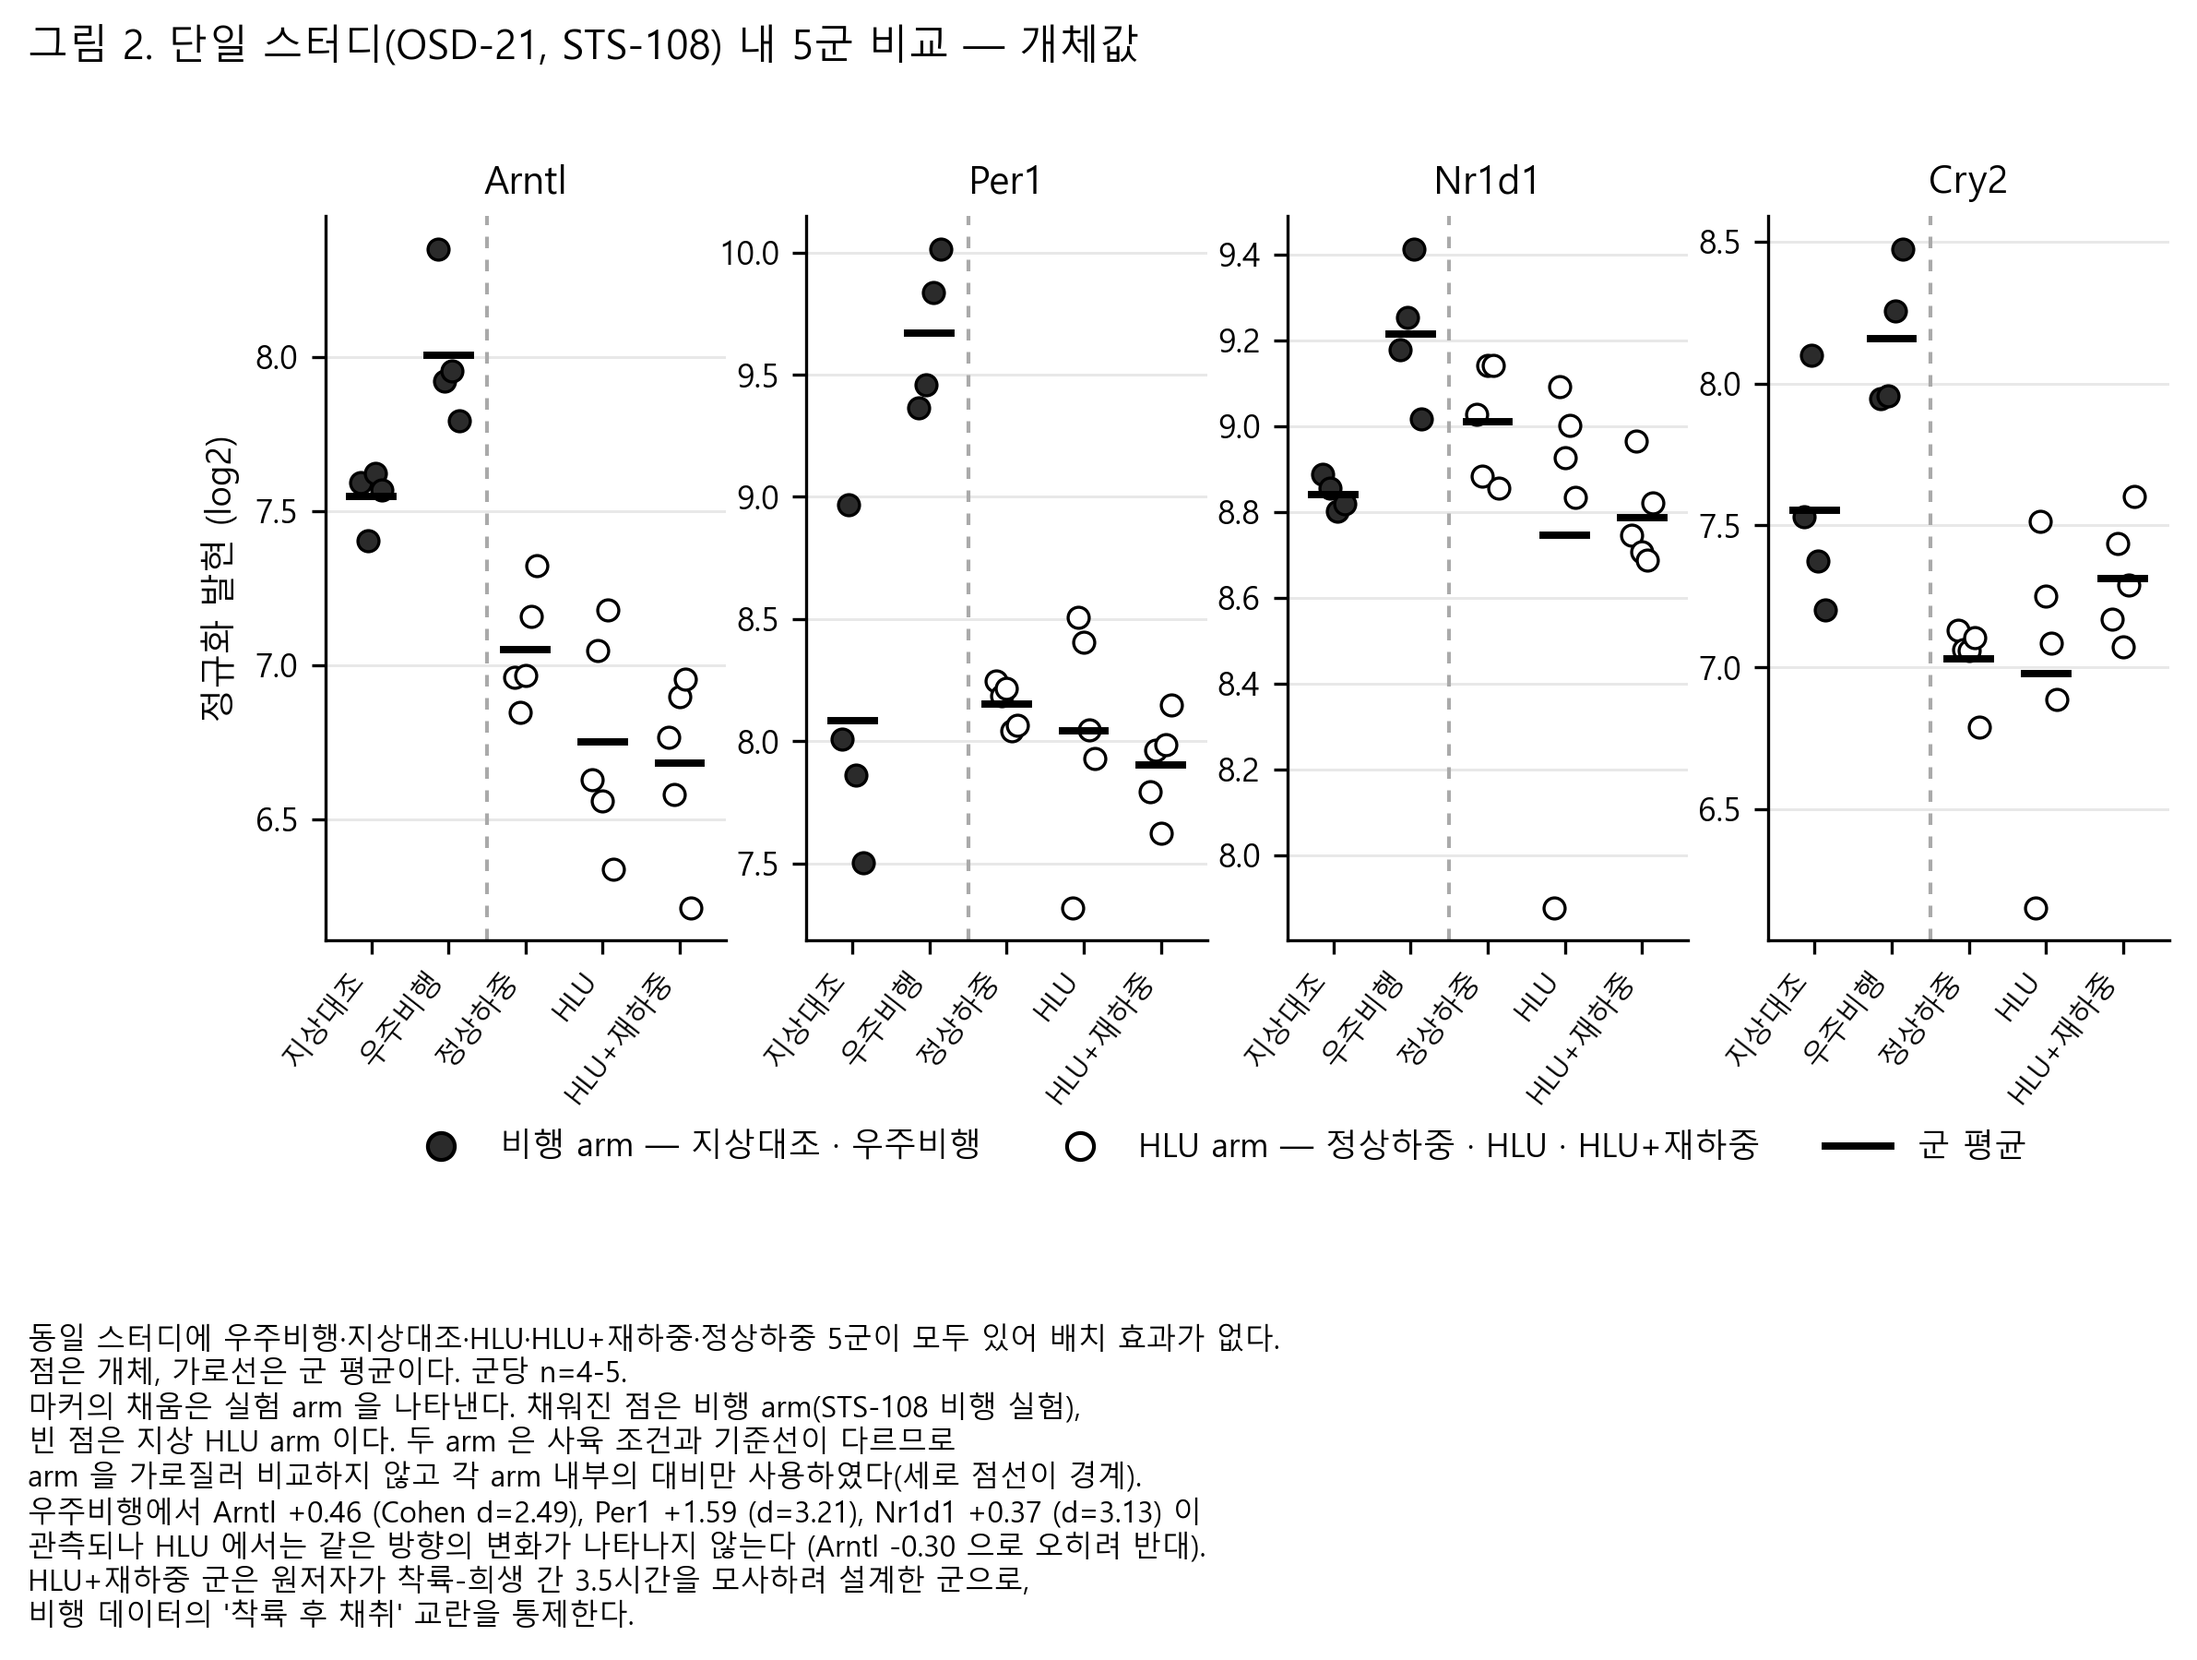
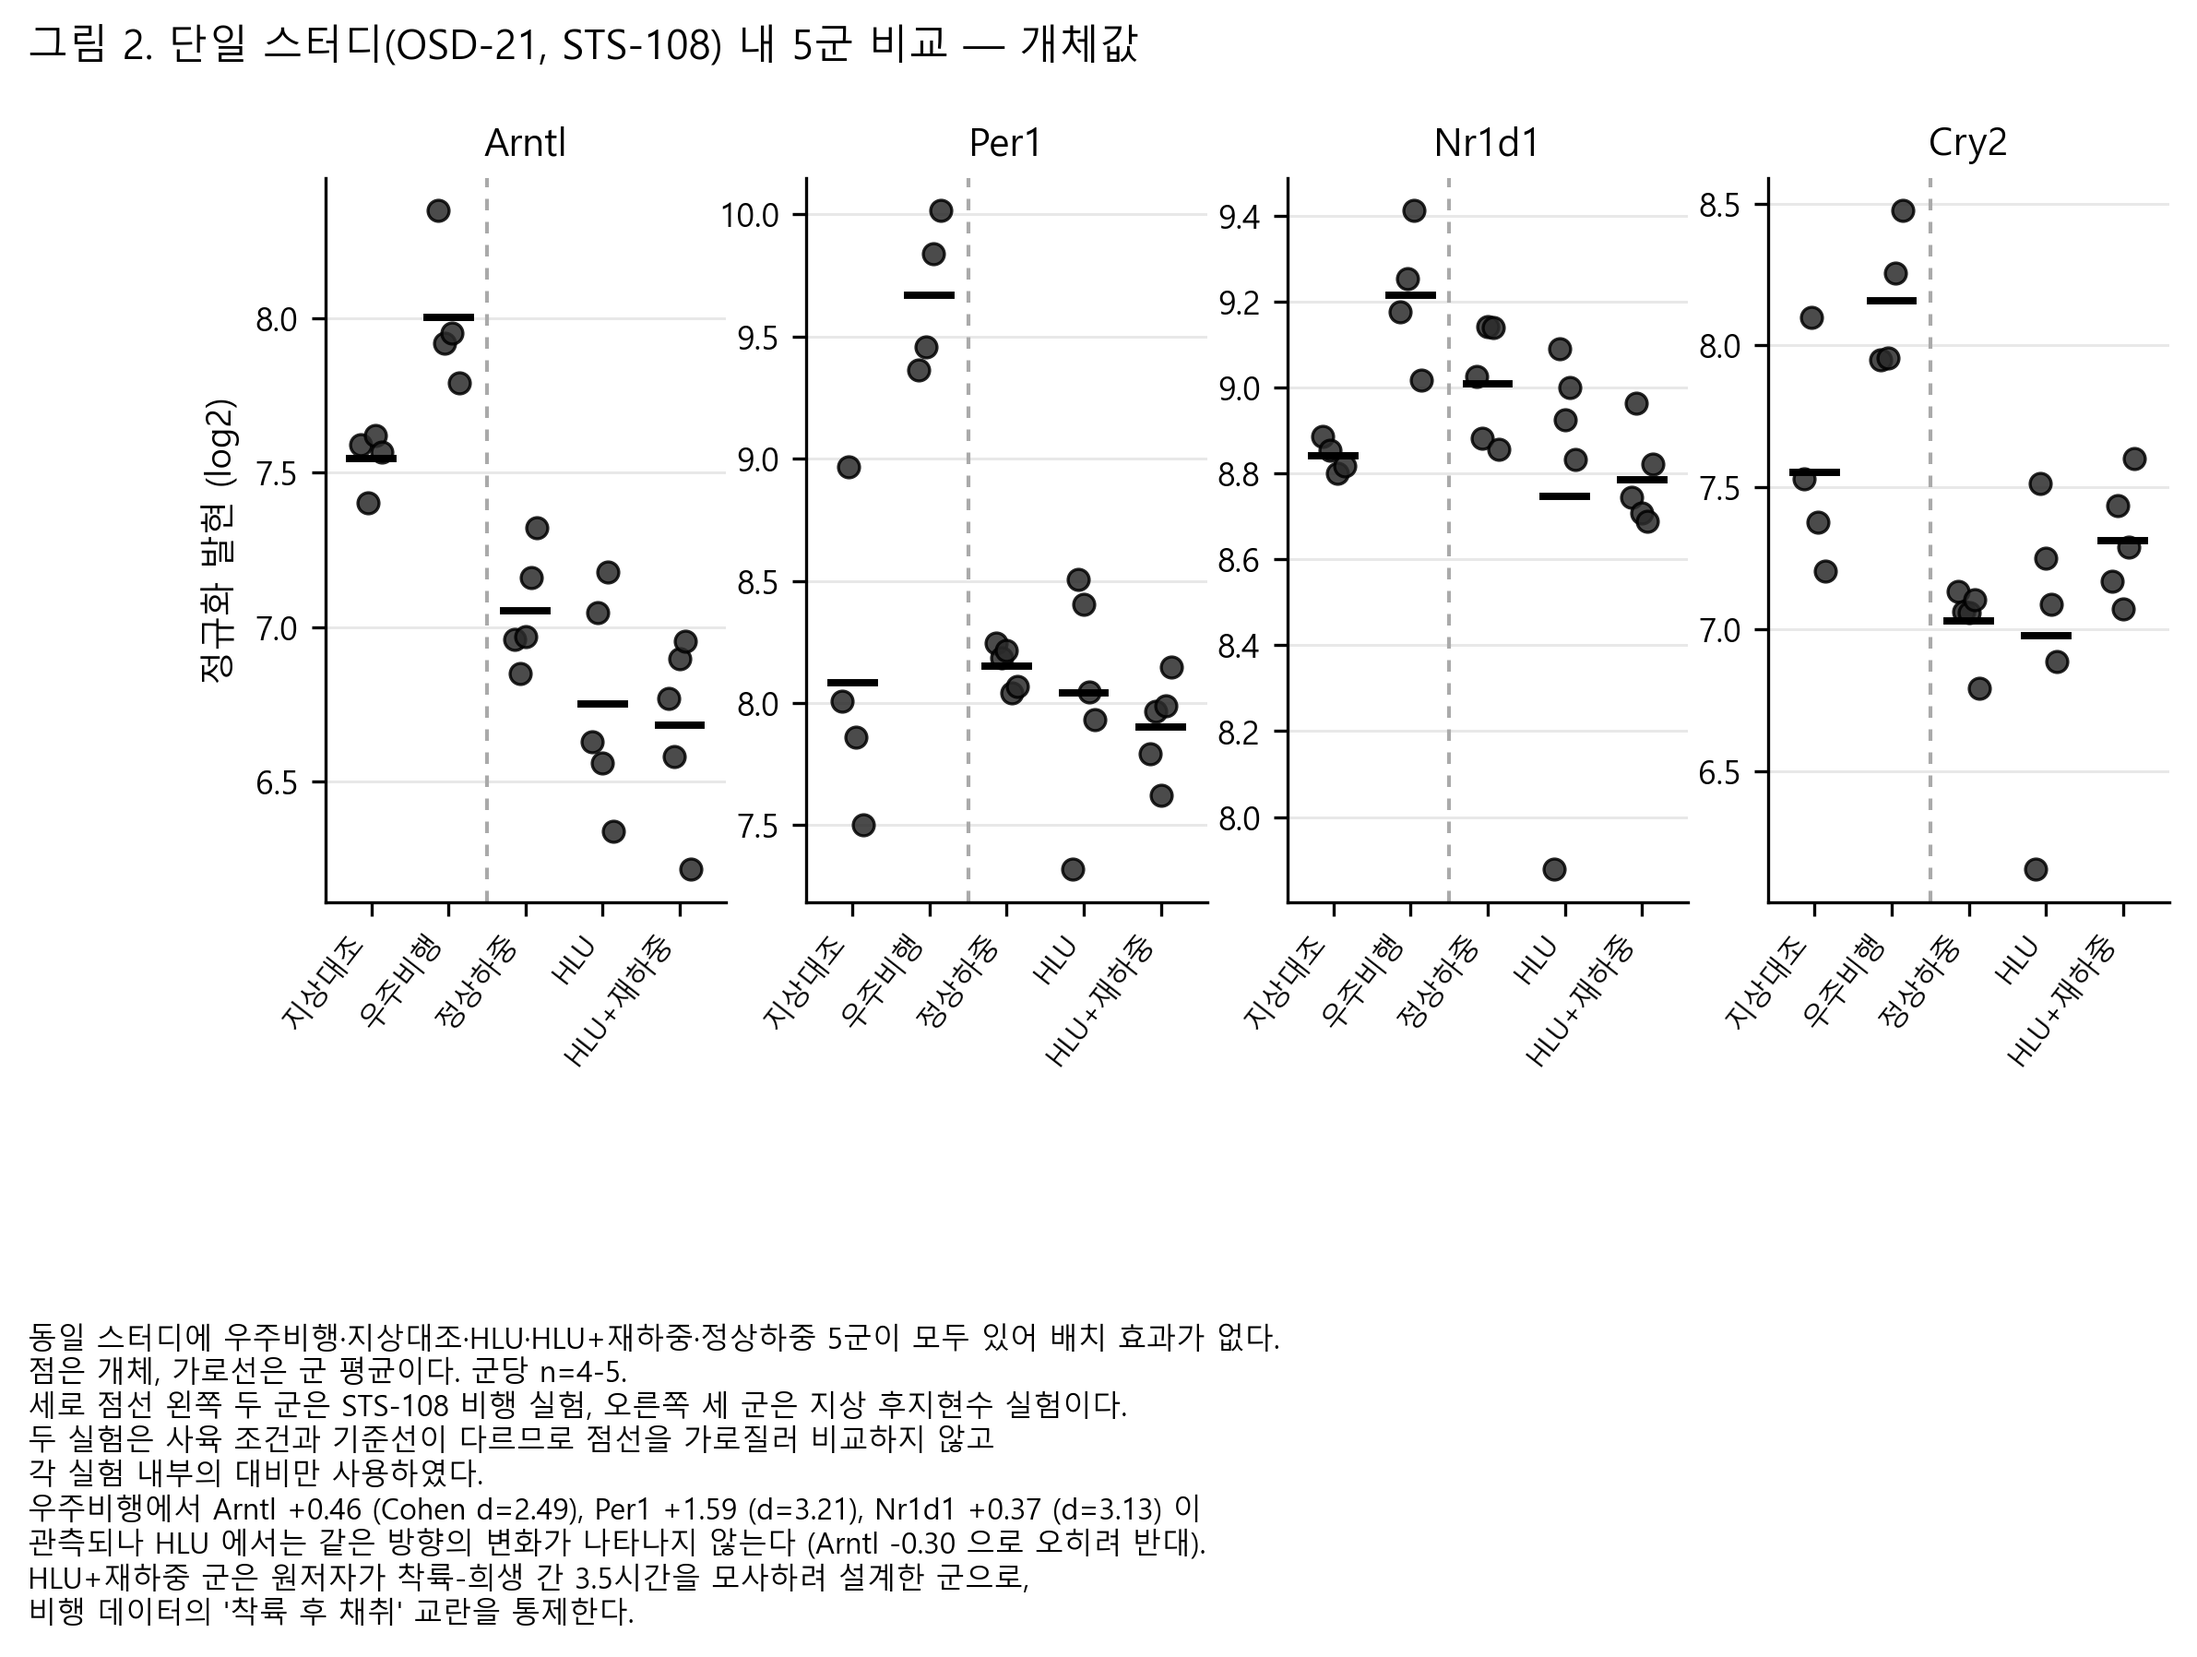
그림 2: 중복 부호화 제거 (범례 추가 대신)
앞선 수정은 방향이 틀렸다. x축에 군 이름이 이미 적혀 있으므로
마커 채움은 같은 정보를 중복 부호화한 것이었고,
그것을 설명하려고 범례를 추가한 것은 불필요한 요소를 늘린 것이었다.

부호화를 제거하는 쪽으로 바꿨다.
- 마커 통일, 범례 삭제
- arm 구분은 세로 점선 하나로만 표시
- 캡션에서 '점선 왼쪽 = STS-108 비행 실험, 오른쪽 = 지상 후지현수 실험' 서술
- 계획서 문서의 그림 2 캡션도 동일하게 수정

diff --git a/src/v2_fig_osd21.py b/src/v2_fig_osd21.py
@@ -9,10 +9,11 @@ v2 — OSD-21 앵커 그림 수정판.
   표시되지 않아, 그림을 올바르게 읽을 수 없는 상태였다.
 
 수정 내용
-  1) 범례 추가 — 두 arm 을 명시
-  2) arm 경계에 구분선과 라벨 추가
-  3) 캡션에 부호화 설명 명시
-  4) 군 이름을 가로로 배치해 회전 라벨 겹침 해소
+  x축에 군 이름이 이미 적혀 있으므로 마커 채움은 같은 정보를 중복 부호화한 것이었다.
+  중복을 없애고 arm 경계는 세로 점선 하나로만 표시한다.
+  마커를 통일하면 범례 자체가 불필요해진다.
+  (첫 수정에서는 범례를 추가했으나, 그것은 불필요한 부호화를 설명하려고
+   요소를 더 늘린 것이었다. 부호화를 제거하는 쪽이 맞다.)
 
 기존 파일은 덮어쓰지 않고 results/v2/figures/ 에 새로 저장한다.
 """
@@ -23,7 +24,7 @@ import matplotlib
 matplotlib.use("Agg")
 import matplotlib.pyplot as plt
 from matplotlib import font_manager
-from matplotlib.lines import Line2D
+# (범례를 없앴으므로 Line2D 불필요)
 
 warnings.filterwarnings("ignore")
 ROOT = os.path.dirname(os.path.dirname(os.path.abspath(__file__)))
@@ -64,9 +65,9 @@ def main():
             v = sub[sub.group == key].value_log2.values
             if not len(v):
                 continue
-            face = INK if arm == "flight" else "white"
             ax.scatter(np.full(len(v), i) + np.linspace(-0.14, 0.14, len(v)), v,
-                       s=30, facecolor=face, edgecolor="black", lw=0.8, zorder=3)
+                       s=30, facecolor=INK, edgecolor="black", lw=0.8,
+                       alpha=0.85, zorder=3)
             ax.plot([i - 0.28, i + 0.28], [v.mean()] * 2, color="black", lw=1.9, zorder=4)
         # arm 경계선
         ax.axvline(1.5, color="#aaaaaa", lw=1.0, ls=(0, (3, 3)), zorder=1)
@@ -81,29 +82,14 @@ def main():
         if ax is axes[0]:
             ax.set_ylabel("정규화 발현 (log2)")
 
-    # arm 구분은 범례와 세로 점선으로 전달한다.
-    # 패널 안에 arm 이름을 넣으면 유전자 제목과 겹친다.
-
-    handles = [
-        Line2D([], [], marker="o", linestyle="none", markersize=7,
-               markerfacecolor=INK, markeredgecolor="black",
-               label="비행 arm — 지상대조 · 우주비행"),
-        Line2D([], [], marker="o", linestyle="none", markersize=7,
-               markerfacecolor="white", markeredgecolor="black",
-               label="HLU arm — 정상하중 · HLU · HLU+재하중"),
-        Line2D([], [], color="black", lw=1.9, label="군 평균"),
-    ]
-    fig.legend(handles=handles, loc="lower center", ncol=3, frameon=False,
-               bbox_to_anchor=(0.5, -0.16), fontsize=8.5)
-
     fig.suptitle("그림 2. 단일 스터디(OSD-21, STS-108) 내 5군 비교 — 개체값",
-                 x=0.0, ha="left", fontsize=10.5, y=1.08)
-    fig.text(0.0, -0.30,
+                 x=0.0, ha="left", fontsize=10.5, y=1.04)
+    fig.text(0.0, -0.34,
              "동일 스터디에 우주비행·지상대조·HLU·HLU+재하중·정상하중 5군이 모두 있어 배치 효과가 없다.\n"
              "점은 개체, 가로선은 군 평균이다. 군당 n=4-5.\n"
-             "마커의 채움은 실험 arm 을 나타낸다. 채워진 점은 비행 arm(STS-108 비행 실험),\n"
-             "빈 점은 지상 HLU arm 이다. 두 arm 은 사육 조건과 기준선이 다르므로\n"
-             "arm 을 가로질러 비교하지 않고 각 arm 내부의 대비만 사용하였다(세로 점선이 경계).\n"
+             "세로 점선 왼쪽 두 군은 STS-108 비행 실험, 오른쪽 세 군은 지상 후지현수 실험이다.\n"
+             "두 실험은 사육 조건과 기준선이 다르므로 점선을 가로질러 비교하지 않고\n"
+             "각 실험 내부의 대비만 사용하였다.\n"
              "우주비행에서 Arntl +0.46 (Cohen d=2.49), Per1 +1.59 (d=3.21), Nr1d1 +0.37 (d=3.13) 이\n"
              "관측되나 HLU 에서는 같은 방향의 변화가 나타나지 않는다 (Arntl -0.30 으로 오히려 반대).\n"
              "HLU+재하중 군은 원저자가 착륙-희생 간 3.5시간을 모사하려 설계한 군으로,\n"

diff --git a/PROGRESS.md b/PROGRESS.md
@@ -50,3 +50,5 @@
 [2026-07-30 09:40] v2 문서화 | 계획서 초안(§2 나 드라이랩 / §3 예상되는 결과)을 v2 수치로 보강 + 작업기록 문서 작성. 둘 다 구글 독스 붙여넣기용 HTML | 갱신 내용: (a) 데이터 절의 '6개 조직'을 '5개 조직 + 골수는 대비 불가로 제외'로 수정 (b) [수정 예정] 표시 해소 — 조직별 표(표 3)와 미션별 표(표 4) 신설 (c) 대비 선택 규칙·품질 게이트를 방법에 명시 (d) 보정·검정력은 '예정'으로 표기 유지(미실시) (e) §3(2)를 세 경우 중 '판정 불가'가 실제로 나왔음을 서술하도록 재작성 (f) 앵커 결론을 '근육에 한정'으로 조건화 (g) 그림 1을 v2 forest plot 으로 교체 | 판정: **완료** | 다음: 커밋
 
 [2026-07-31 10:15] 그림 2 부호화 누락 수정 | 기존 fig3_osd21_anchor.png 은 마커 채움으로 비행 arm(지상대조·우주비행)과 HLU arm(정상하중·HLU·HLU+재하중)을 구분했으나 범례도 캡션 설명도 없었음. 캡션이 'arm 내부 대비만 사용' 이라고 서술하면서 정작 어느 점이 어느 arm 인지 표시하지 않아 그림을 올바르게 읽을 수 없는 상태였음 | 조치: 범례 추가(채운 점/빈 점/군 평균), arm 경계 세로 점선 추가, 캡션에 부호화 명시. 패널 내 arm 라벨은 유전자 제목과 겹쳐 제거하고 범례로 대체 | 결과: results/v2/figures/fig3_v2_osd21_anchor.png (기존 v1 파일은 보존). 계획서 문서의 그림 2 캡션도 갱신 | 판정: **완료**
+
+[2026-07-31 11:05] 그림 2 재수정 — 중복 부호화 제거 | 앞선 수정(범례 추가)은 방향이 틀렸다는 지적을 받음. x축에 이미 군 이름이 표기돼 있으므로 마커 채움은 같은 정보의 중복 부호화였고, 그것을 설명하려고 범례를 더한 것은 요소만 늘린 셈 | 조치: 마커를 통일하고 범례 제거. arm 구분은 세로 점선 하나로만 표시하고 캡션에서 '점선 왼쪽=비행 실험, 오른쪽=지상 실험' 으로 서술 | 결과: 그림 요소가 줄고 읽기 쉬워짐. 계획서 캡션도 동일하게 수정 | 판정: **완료**
